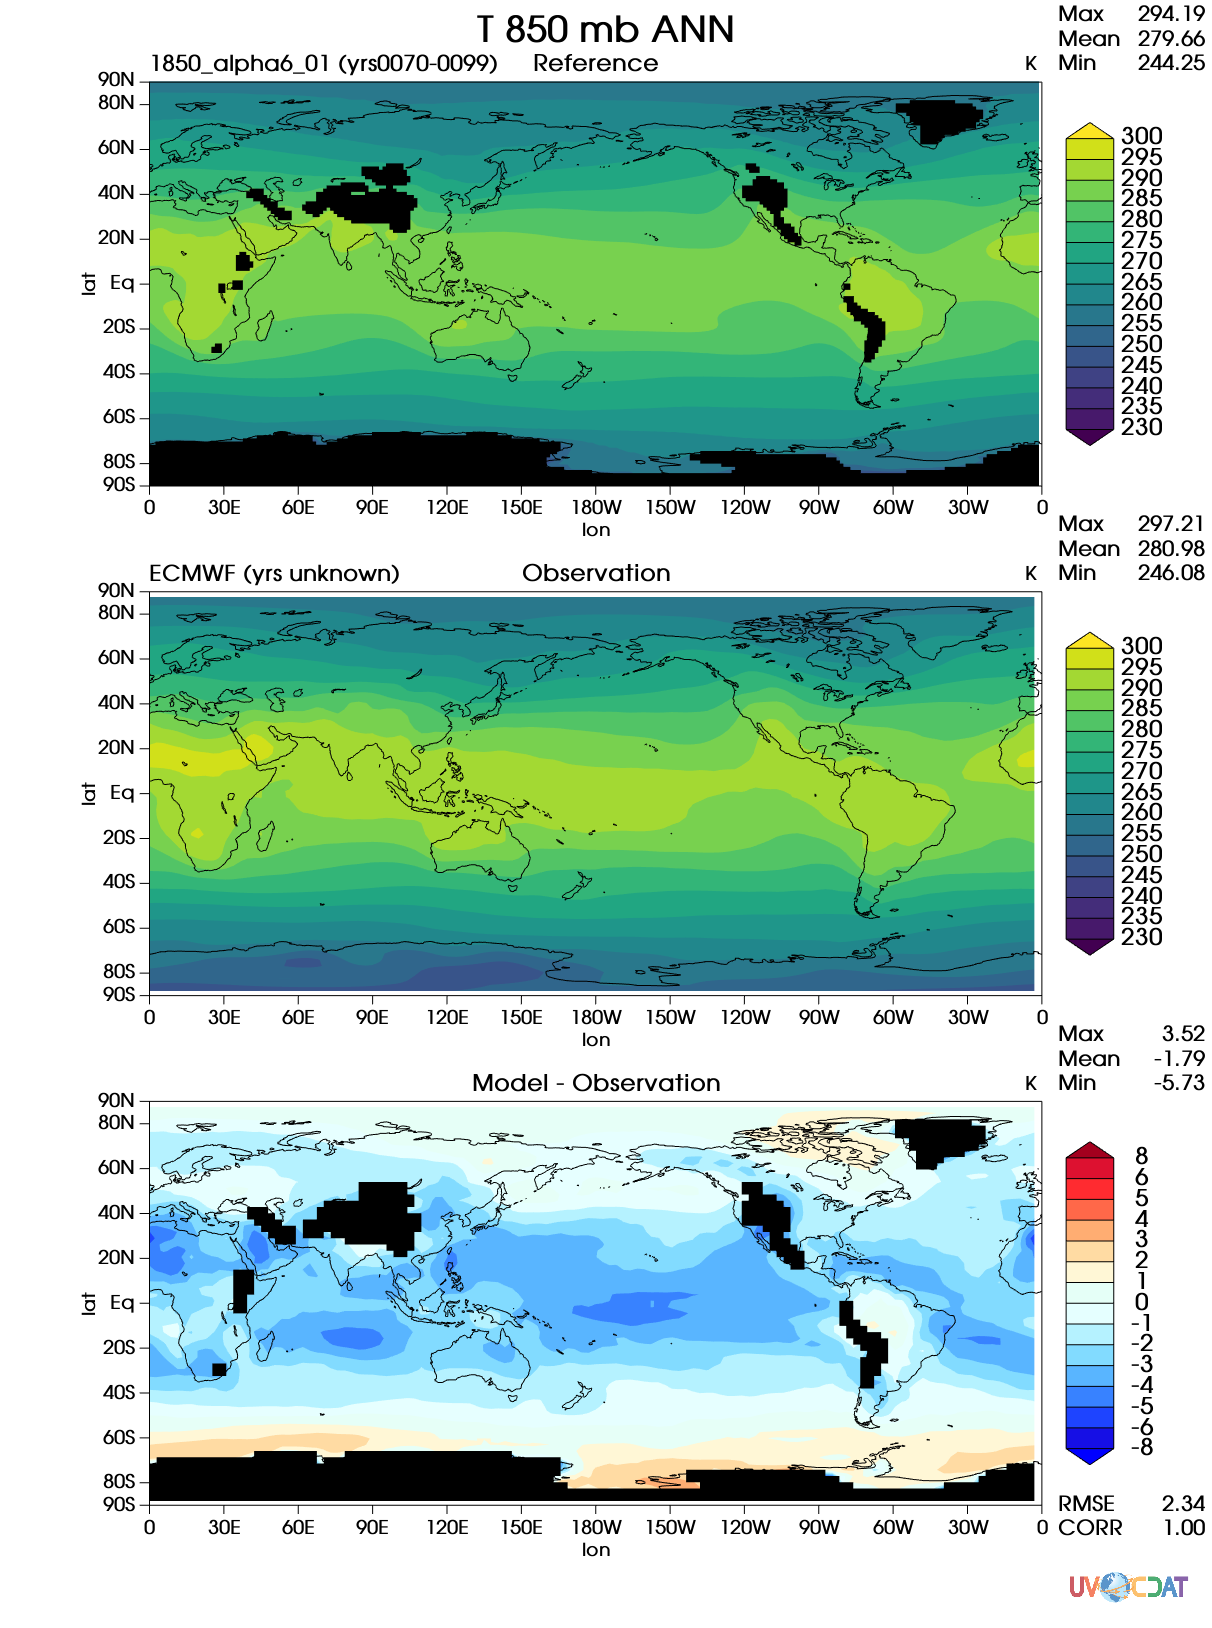
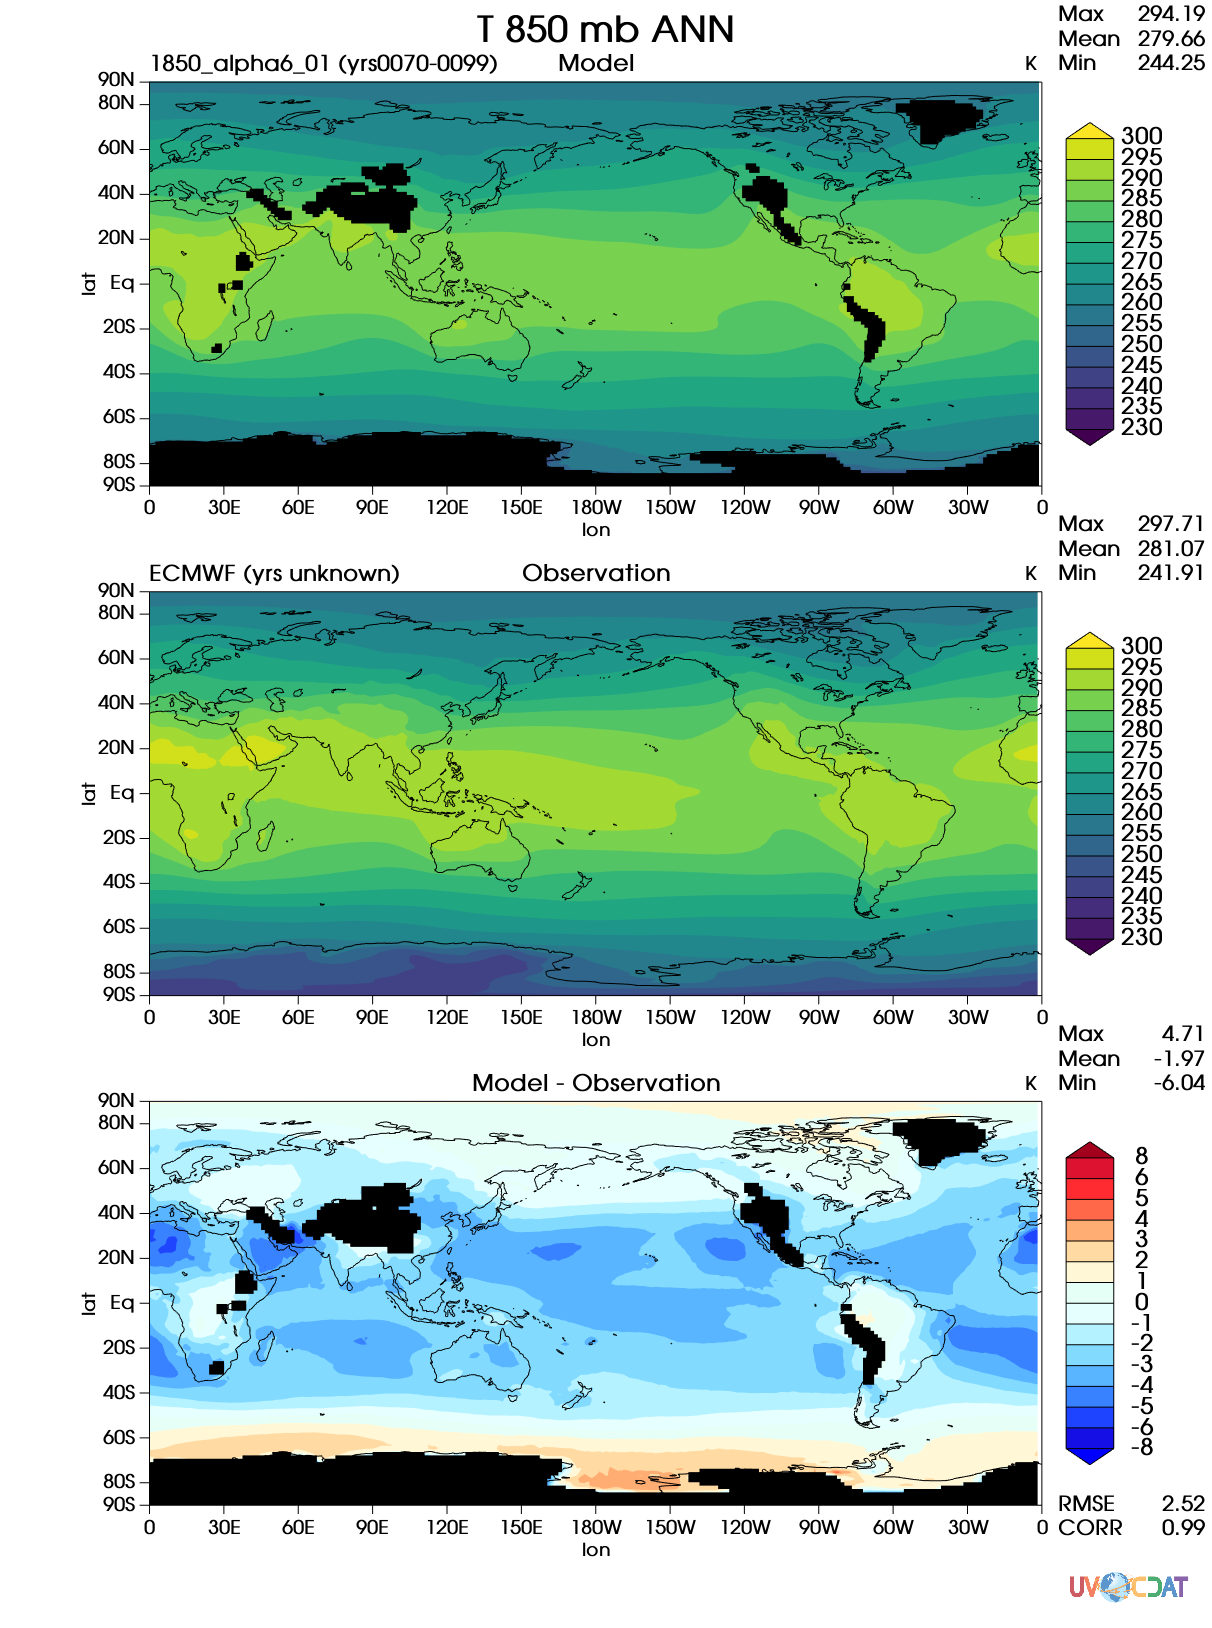
obs/mod on same vertical grid

diff --git a/acme_diags/plotset5/set5_ANN_PRECT_GPCP_model.py b/acme_diags/plotset5/set5_ANN_PRECT_GPCP_model.py
@@ -35,22 +35,22 @@ if mod_pr.ndim == 4: # var(time,lev,lon,lat) convert from hybrid level to pressu
     hybm = f_mod('hybm')
     ps = f_mod('PS')/100.    #convert unit from 'Pa' to mb
     p0 = 1000. #mb
-    plv17 = numpy.array([10.,30.,50.,70.,100.,150.,200.,250.,300.,400.,500.,
-                     600.,700.,775.,850.,925.,1000.])
+    plv17 = [10.,30.,50.,70.,100.,150.,200.,250.,300.,400.,500.,
+                     600.,700.,775.,850.,925.,1000.]
     levels_orig = cdutil.vertical.reconstructPressureFromHybrid(ps,hyam,hybm,p0)
     levels_orig.units = 'mb'
     mod_pr_p=cdutil.vertical.logLinearInterpolation(mod_pr, levels_orig, plv17)
-
-    obs_plv = obs_pr.getLevel()[:]
+    
+    # Create pressure grid to interpolate reference data
+    obs_levels_orig = cdms2.createAxis(plv17,id = 'lev')
+    obs_pr_p = obs_pr.pressureRegrid(obs_levels_orig)
 
     # set the level to compare, this should be a parameter
     plev = 850 #mb
 
-    plev_ind = plv17.tolist().index(plev)
+    plev_ind = plv17.index(plev)
     mod_pr = mod_pr_p[:,plev_ind,:,:]
-
-    plev_ind = obs_plv.tolist().index(plev)
-    obs_pr = obs_pr[:,plev_ind,:,:]
+    obs_pr = obs_pr_p[:,plev_ind,:,:]
 
 axes1 = mod_pr.getAxisList()
 axes2 = obs_pr.getAxisList()

diff --git a/acme_diags/plotset5/set5parameter_lev.py b/acme_diags/plotset5/set5parameter_lev.py
@@ -1,11 +1,11 @@
 case_id = 'set5_ANN_T200_ECMWF'
 #reference_data_path = '/space1/test_data/obs_for_diagnostics/'
 #test_data_path = '/space/golaz1/ACME_simulations/20160520.A_WCYCL1850.ne30_oEC.edison.alpha6_01/pp/clim_rgr/0070-0099/'
-reference_data_path = '/Users/shaheen2/github/acme_diags/acme_diags/'
-test_data_path = '/Users/shaheen2/github/acme_diags/acme_diags/'
-#reference_data_path = '/Users/zhang40/Documents/obs_for_diagnostics/'
-#test_data_path = '/Users/zhang40/Documents/ACME_simulations/'
-reference_data_set = 'ECMWF_ANN_climo.nc'  # observation
+#reference_data_path = '/Users/shaheen2/github/acme_diags/acme_diags/'
+#test_data_path = '/Users/shaheen2/github/acme_diags/acme_diags/'
+reference_data_path = '/Users/zhang40/Documents/obs_for_diagnostics/'
+test_data_path = '/Users/zhang40/Documents/ACME_simulations/'
+reference_data_set = 'ERAI_ANN_climo.nc'  # observation
 test_data_set = '20160520.A_WCYCL1850.ne30_oEC.edison.alpha6_01_ANN_climo.nc'  # model
 variables = 'T'
 season = 'ANN'
@@ -15,7 +15,7 @@ output_file = 'test_lev.png'
 main_title = 'this changes in the code'
 
 test_name = '1850_alpha6_01 (yrs0070-0099)'
-test_title = 'Reference'
+test_title = 'Model'
 #test_colormap = ''
 #test_units = 'K'
 

diff --git a/acme_diags/plotset5/set5parameter.py b/acme_diags/plotset5/set5parameter.py
@@ -1,10 +1,10 @@
 case_id = 'set5_ANN_PRECT_GPCP'
 #reference_data_path = '/space1/test_data/obs_for_diagnostics/'
 #test_data_path = '/space/golaz1/ACME_simulations/20160520.A_WCYCL1850.ne30_oEC.edison.alpha6_01/pp/clim_rgr/0070-0099/'
-reference_data_path = '/Users/shaheen2/github/acme_diags/acme_diags/'
-test_data_path = '/Users/shaheen2/github/acme_diags/acme_diags/'
-#reference_data_path = '/Users/zhang40/Documents/obs_for_diagnostics/'
-#test_data_path = '/Users/zhang40/Documents/ACME_simulations/'
+#reference_data_path = '/Users/shaheen2/github/acme_diags/acme_diags/'
+#test_data_path = '/Users/shaheen2/github/acme_diags/acme_diags/'
+reference_data_path = '/Users/zhang40/Documents/obs_for_diagnostics/'
+test_data_path = '/Users/zhang40/Documents/ACME_simulations/'
 reference_data_set = 'GPCP_ANN_climo.nc'  # observation
 test_data_set = '20160520.A_WCYCL1850.ne30_oEC.edison.alpha6_01_ANN_climo.nc'  # model
 
@@ -19,7 +19,7 @@ output_file = 'test'
 main_title = 'PRECT ANN'
 
 test_name = '1850_alpha6_01 (yrs0070-0099)'
-test_title = 'Reference'
+test_title = 'Model'
 test_colormap = ''
 #test_levels = [0, 0.2, 0.5, 1, 2, 3, 4, 5, 6, 7, 8, 9, 10, 12, 14, 17]
 test_levels = []

diff --git a/acme_diags/plotset5/plot_set_5.py b/acme_diags/plotset5/plot_set_5.py
@@ -58,7 +58,6 @@ def plot_min_max_mean(canvas, variable, ref_test_or_diff):
 def plot_rmse_and_corr(canvas, model, obs):
     """canvas is a vcs.Canvas, model and obs are
     a cdms2.tvariable.TransientVariable"""
-
     rmse = '%.2f' % compute_rmse(obs, model)
     corr = '%.2f' % compute_corr(obs, model)
 
